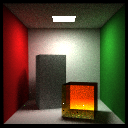
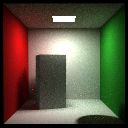
working on shadow rays

diff --git a/rt/src/rt/testscenes/ParticipatingMedia.java b/rt/src/rt/testscenes/ParticipatingMedia.java
@@ -22,6 +22,8 @@ import java.io.IOException;
 
 public class ParticipatingMedia extends CornellBox {
 
+	private Sphere sphere;
+
 	public ParticipatingMedia()
 	{
 		outputFilename = new String("output/testscenes/assignment6/ParticipatingMedia");
@@ -53,10 +55,114 @@ public class ParticipatingMedia extends CornellBox {
 		integratorFactory = iF;
 
 		build();
-
-		Spectrum sigmaMilk = new Spectrum(0.0015333f, 0.0046f, 0.019933f);
+// 0.009126 0.0010748 0.0012500
+// 0.009124 0.0010744 0.0012492
+		Spectrum sigmaMilk = new Spectrum(0.000002f, 0.0000004f, 0.0000008f);
+		sigmaMilk.mult(1);
+		Spectrum test = new Spectrum(0.000008f, 0.0000008f, 0.0000008f);
 		Spectrum sigmaWater = new Spectrum(0.001886f, 0.0018308f, 0.0020025f);
-		short_block.material = new Homogeneous(sigmaMilk, new Spectrum(0, 0, 0), 100);
+
+		Spectrum g = new Spectrum(0.932f, 0.902f, 0.859f);
+		sphere.material = new Homogeneous(sigmaMilk, new Spectrum(0, 0, 0), 100);
+	}
+
+	protected void build()
+	{
+		// List of objects
+		IntersectableList objects = new IntersectableList();
+
+		// Materials
+		Diffuse white = new Diffuse(new Spectrum(0.73f, 0.739f, 0.729f));
+		Diffuse green = new Diffuse(new Spectrum(0.117f, 0.435f, 0.115f));
+		Diffuse red = new Diffuse(new Spectrum(0.61f, 0.056f, 0.062f));
+
+		// Floor
+		float[] floor_vertices = {552.8f, 0, 0, 0, 0, 0, 0, 0, 559.2f, 549.6f, 0, 559.2f};
+		float[] floor_normals = {0, 1, 0, 0, 1, 0, 0, 1, 0, 0, 1, 0};
+		int[] floor_indices = {0, 1, 2, 0, 2, 3};
+		Mesh floor = new Mesh(floor_vertices, floor_normals, null, floor_indices);
+		floor.material = white;
+		objects.add(floor);
+
+		// Ceiling
+		float[] ceiling_vertices = {556.0f, 548.8f, 0, 556.0f, 548.8f, 559.2f, 0, 548.8f, 559.2f, 0, 548.8f, 0};
+		float[] ceiling_normals = {0, -1, 0, 0, -1, 0, 0, -1, 0, 0, -1, 0};
+		int[] ceiling_indices = {0, 1, 2, 0, 2, 3};
+		Mesh ceiling = new Mesh(ceiling_vertices, ceiling_normals, null, ceiling_indices);
+		ceiling.material = white;
+		objects.add(ceiling);
+
+		// Back wall
+		float[] back_wall_vertices = {549.6f, 0, 559.2f, 0, 0, 559.2f, 0, 548.8f, 559.2f, 556.0f, 548.8f, 559.2f};
+		float[] back_wall_normals = {0, 0, -1, 0, 0, -1, 0, 0, -1, 0, 0, -1};
+		int[] back_wall_indices = {0, 1, 2, 0, 2, 3};
+		Mesh back_wall = new Mesh(back_wall_vertices, back_wall_normals, null, back_wall_indices);
+		back_wall.material = white;
+		objects.add(back_wall);
+
+		// Right wall
+		float[] right_wall_vertices = {0, 0, 559.2f, 0, 0, 0, 0, 548.8f, 0, 0, 548.8f, 559.2f};
+		float[] right_wall_normals = {1, 0, 0, 1, 0, 0, 1, 0, 0, 1, 0, 0};
+		int[] right_wall_indices = {0, 1, 2, 0, 2, 3};
+		Mesh right_wall = new Mesh(right_wall_vertices, right_wall_normals, null, right_wall_indices);
+		right_wall.material = green;
+		objects.add(right_wall);
+
+		// Left wall
+		float[] left_wall_vertices = {552.8f, 0, 0, 549.6f, 0, 559.2f, 556.0f, 548.8f, 559.2f, 556.0f, 548.8f, 0};
+		float[] left_wall_normals = {-1, 0, 0, -1, 0, 0, -1, 0, 0, -1, 0, 0};
+		int[] left_wall_indices = {0, 2, 3, 0, 1, 2};
+		Mesh left_wall = new Mesh(left_wall_vertices, left_wall_normals, null, left_wall_indices);
+		left_wall.material = red;
+		objects.add(left_wall);
+
+		// Short block
+		sphere = new Sphere(new Point3f(130, 100, 65), 100);
+		objects.add(sphere);
+//		float[] short_block_vertices = {130, 165, 65, 82, 165, 225, 240, 165, 272, 290, 165, 114, // top
+//				290, 0, 114, 290, 165, 114, 240, 165, 272, 240, 0, 272, // left
+//				130, 0, 65, 130, 165, 65, 290, 165, 114, 290, 0, 114, // front
+//				82, 0, 225, 82, 165, 225, 130, 165, 65, 130, 0, 65, // right
+//				240, 0, 272, 240, 165, 272, 82, 165, 225, 82, 0, 225}; // back
+//		float[] short_block_normals = null; // Will create normals based on indices order
+//		int[] short_block_indices =    {0, 1, 2, 0, 2, 3, // top
+//				4, 6, 5, 4, 7, 6, // left
+//				8, 9, 10, 8, 10, 11, // front
+//				12, 13, 14, 12, 14, 15, // right
+//				16, 18, 17, 16, 19, 18}; // back
+//		short_block = new Mesh(short_block_vertices, short_block_normals, null, short_block_indices);
+//		short_block.material = white;
+//		objects.add(short_block);
+
+		// Tall block
+		float[] tall_block_vertices =  {423, 330, 247, 265, 330, 296, 314, 330, 456, 472, 330, 406,
+				423, 0, 247, 423, 330, 247, 472, 330, 406, 472, 0, 406,
+				472, 0, 406, 472, 330, 406, 314, 330, 456, 314, 0, 456,
+				314, 0, 456, 314, 330, 456, 265, 330, 296, 265, 0, 296,
+				265, 0, 296, 265, 330, 296, 423, 330, 247, 423, 0, 247};
+		float[] tall_block_normals = null; // Will create normals based on indices order
+		int[] tall_block_indices =     {0, 2, 1, 0, 3, 2, // top
+				4, 6, 5, 4, 7, 6, // left
+				8, 9, 10, 8, 10, 11, // back
+				12, 14, 13, 12, 15, 14, // right
+				16, 17, 18, 16, 18, 19}; // front
+		tall_block = new Mesh(tall_block_vertices, tall_block_normals, null, tall_block_indices);
+		tall_block.material = white;
+		objects.add(tall_block);
+
+		// Light source
+		Point3f bottomLeft = new Point3f(343.0f, 548.7f, 227.0f);
+		Vector3f right = new Vector3f(0, 0, 332 - 227);
+		Vector3f top = new Vector3f(213 - 343, 0, 0);
+		Spectrum emission = new Spectrum(100, 100, 100);
+		emission.mult(30000);
+		RectangleLight light = new RectangleLight(bottomLeft, right, top, emission);
+
+		lightList = new LightList();
+		lightList.add(light);
+		objects.add(light);
+
+		root = objects;
 	}
 	
 }

diff --git a/rt/src/rt/integrators/PathTracingIntegrator.java b/rt/src/rt/integrators/PathTracingIntegrator.java
@@ -50,26 +50,16 @@ public class PathTracingIntegrator extends AbstractIntegrator
 
             if(!vertex.shadingSample.isSpecular)
             {   // Do not add light source contribution on specular surfaces (mirrors, refractive materials)
-                Spectrum lightSourceContribution = lightSourceContribution(vertex.hitRecord);
+                Spectrum lightSourceContribution = new Spectrum();
+                if(vertex.isInsideMedium)
+                {
+                    lightSourceContribution = connectMediumWithLightSource(vertex);
+                } else {
+                    lightSourceContribution = lightSourceContribution(vertex.hitRecord);
+                }
                 lightSourceContribution.mult(vertex.alpha);
                 color.add(lightSourceContribution);
             }
-
-//            Medium medium = vertex.hitRecord.material.getMedium();
-//            float cos = vertex.hitRecord.normal.dot(vertex.shadingSample.w);
-//            if(cos >= 0 || medium == null || vertex.index == path.length()) continue;
-//
-//            float d = vertex.vector(path.get(vertex.index + 1)).length();
-//            float ds = d / 10;
-//            for(float s_i = 0; s_i <= d; s_i += ds)
-//            {
-//                Spectrum c = new Spectrum(sigma_t);
-//                c.mult(ds);
-//                c.mult(-1);
-//                c.add(1);
-//                transmission.mult(c);
-//            }
-
         }
         return color;
     }
@@ -119,8 +109,9 @@ public class PathTracingIntegrator extends AbstractIntegrator
             if(cos >= 0 || medium == null || surfaceHit == null) continue;
 
             float d = surfaceHit.t;
-            float ds = d / 10;
-            for(int i = 1; i < 10; i++)
+            int n = 4;
+            float ds = d / n;
+            for(int i = 1; i < n; i++)
             {
                 alpha.mult(medium.evaluateTransmission(ds));
 
@@ -136,6 +127,7 @@ public class PathTracingIntegrator extends AbstractIntegrator
                 mediumVertex.shadingSample = current.shadingSample;
                 mediumVertex.index = path.numberOfVertices();
                 mediumVertex.alpha = new Spectrum(alpha);
+                mediumVertex.isInsideMedium = true;
                 path.add(mediumVertex);
 
             }
@@ -182,6 +174,46 @@ public class PathTracingIntegrator extends AbstractIntegrator
         contribution.mult(conversionFactor);
 
         return contribution;
+    }
+
+    protected Spectrum connectMediumWithLightSource(PathVertex vertex)
+    {
+        LightGeometry light = getRandomLight();
+        RandomSampler sampler = new RandomSampler();
+        HitRecord lightHit = light.sample(sampler.makeSamples(1, 2)[0]);
+        lightHit.p /= lightList.size();
+        lightHit.w = StaticVecmath.sub(vertex.hitRecord.position, lightHit.position);
+
+        Vector3f lightDir = StaticVecmath.negate(lightHit.w);
+        lightHit.w.normalize();
+
+        // Shoot ray towards boundary of medium
+        Ray shadowRay = new Ray(vertex.hitRecord.position, lightDir);
+        HitRecord boundaryHit = root.intersect(shadowRay);
+
+        Vector3f boundaryToLight = StaticVecmath.sub(lightHit.position, boundaryHit.position);
+        float d2 = boundaryToLight.lengthSquared();
+
+        if(isInShadow(boundaryHit, boundaryToLight))
+            return new Spectrum();
+
+        Medium medium = vertex.hitRecord.material.getMedium();
+        assert  medium != null;
+
+        Spectrum connection = lightHit.material.evaluateEmission(lightHit, lightHit.w);
+        connection.mult(medium.evaluateTransmission(boundaryHit.t));
+
+        float cos = Math.max(0, lightHit.w.dot(lightHit.normal));
+        float conversionFactor = cos / d2;
+
+        connection.mult(conversionFactor);
+        connection.mult(1 / lightHit.p);
+
+        Spectrum phaseFunction = medium.getPhaseFunction().probability(StaticVecmath.negate(vertex.hitRecord.w), StaticVecmath.normalize(lightDir));
+
+        connection.mult(phaseFunction);
+
+        return connection;
     }
 
     protected Spectrum shade(HitRecord surfaceHit, HitRecord lightHit)

diff --git a/rt/src/rt/media/Homogeneous.java b/rt/src/rt/media/Homogeneous.java
@@ -37,11 +37,18 @@ public class Homogeneous implements Material, Medium
     @Override
     public Spectrum evaluateTransmission(float ds)
     {
-        Spectrum transmission = new Spectrum(sigma_t);
-        transmission.mult(ds);
-        transmission.mult(-1);
-        transmission.add(1);
+        Spectrum transmission = new Spectrum();
+        transmission.r = (float) Math.exp(-sigma_t.r * ds);
+        transmission.g = (float) Math.exp(-sigma_t.g * ds);
+        transmission.b = (float) Math.exp(-sigma_t.b * ds);
+
         return  transmission;
+    }
+
+    @Override
+    public PhaseFunction getPhaseFunction()
+    {
+        return new HenyeyGreensteinPhaseFunction(new Spectrum(0, 0, 0));
     }
 
     @Override
@@ -86,6 +93,7 @@ public class Homogeneous implements Material, Medium
         ShadingSample s = new ShadingSample();
         s.w = StaticVecmath.negate(hitRecord.w);
         s.brdf = new Spectrum(1, 1, 1);
+        s.brdf.mult(1f / Math.abs(hitRecord.normal.dot(s.w)));
         s.emission = evaluateEmission(hitRecord, hitRecord.w);
         s.isSpecular = false;
         s.p = 1;
@@ -107,7 +115,7 @@ public class Homogeneous implements Material, Medium
     @Override
     public float getProbability(HitRecord hitRecord, Vector3f direction)
     {
-        return hitRecord.w.equals(StaticVecmath.negate(direction)) ? 1 : 0;
+        return 0;
     }
 
     @Override

diff --git a/rt/src/rt/media/HenyeyGreensteinPhaseFunction.java b/rt/src/rt/media/HenyeyGreensteinPhaseFunction.java
@@ -1,0 +1,33 @@
+package rt.media;
+
+import rt.Spectrum;
+
+import javax.vecmath.Vector3f;
+
+/**
+ * Created by adrian on 30.05.16.
+ */
+public class HenyeyGreensteinPhaseFunction implements PhaseFunction
+{
+    Spectrum g;
+
+    public HenyeyGreensteinPhaseFunction(Spectrum g)
+    {
+        this.g = g;
+    }
+
+    @Override
+    public Spectrum probability(Vector3f wIn, Vector3f wOut)
+    {
+        float cos = wIn.dot(wOut);
+        Spectrum g_squared = new Spectrum(g);
+        g_squared.mult(g);
+        double fourPI = 4 * Math.PI;
+
+        double r = (1 - g_squared.r) / (fourPI * Math.pow(1 + g_squared.r - 2 * this.g.r * cos, 1.5));
+        double g = (1 - g_squared.g) / (fourPI * Math.pow(1 + g_squared.g - 2 * this.g.g * cos, 1.5));
+        double b = (1 - g_squared.b) / (fourPI * Math.pow(1 + g_squared.b - 2 * this.g.b * cos, 1.5));
+
+        return new Spectrum((float) r, (float) g, (float) b);
+    }
+}

diff --git a/rt/src/rt/Medium.java b/rt/src/rt/Medium.java
@@ -2,6 +2,7 @@ package rt;
 
 import rt.Ray;
 import rt.Spectrum;
+import rt.media.PhaseFunction;
 
 /**
  * Created by Adrian on 22.05.2016.
@@ -11,4 +12,6 @@ public interface Medium
     public Spectrum evaluateTransmission(Ray r, float s_in, float s_out);
 
     public Spectrum evaluateTransmission(float ds);
+
+    public PhaseFunction getPhaseFunction();
 }

diff --git a/rt/src/rt/media/Milk.java b/rt/src/rt/media/Milk.java
@@ -1,0 +1,14 @@
+package rt.media;
+
+import rt.Spectrum;
+
+/**
+ * Created by adrian on 30.05.16.
+ */
+public class Milk extends Homogeneous
+{
+    public Milk(Spectrum sigma_t, Spectrum emission, int nSamples)
+    {
+        super(sigma_t, emission, nSamples);
+    }
+}

diff --git a/rt/src/rt/Main.java b/rt/src/rt/Main.java
@@ -25,7 +25,7 @@ public class Main {
 	 * Only for debugging a single pixel
 	 */
 	public static boolean DEBUG_ON = false;
-	public static float[] DEBUG_PIXEL = {84, 100};
+	public static float[] DEBUG_PIXEL = {80, 100};
 
 	/** 
 	 * The scene to be rendered.

diff --git a/rt/src/rt/media/PhaseFunction.java b/rt/src/rt/media/PhaseFunction.java
@@ -1,0 +1,13 @@
+package rt.media;
+
+import rt.Spectrum;
+
+import javax.vecmath.Vector3f;
+
+/**
+ * Created by adrian on 30.05.16.
+ */
+public interface PhaseFunction
+{
+    public Spectrum probability(Vector3f wIn, Vector3f wOut);
+}

diff --git a/rt/src/rt/media/Opaque.java b/rt/src/rt/media/Opaque.java
@@ -20,4 +20,10 @@ public class Opaque implements Medium
     {
         return new Spectrum();
     }
+
+    @Override
+    public PhaseFunction getPhaseFunction()
+    {
+        return null;
+    }
 }

diff --git a/rt/src/rt/integrators/PathVertex.java b/rt/src/rt/integrators/PathVertex.java
@@ -18,6 +18,8 @@ public class PathVertex
     Spectrum alpha;
     float pE, pL;
 
+    boolean isInsideMedium = false;
+
     public boolean isRoot()
     {
         return index == 0;
